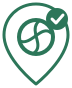
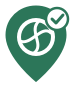
fix: align marker states with Apple completion semantics

diff --git a/scripts/render_markers.swift b/scripts/render_markers.swift
@@ -96,8 +96,9 @@ func pngData(_ image: NSImage) -> Data {
   return png
 }
 func drawCheckBadge() {
-  fill(circle(57, 69, 11), green)
-  let check = NSBezierPath(); check.move(to: NSPoint(x: 52, y: 69)); check.line(to: NSPoint(x: 56, y: 65)); check.line(to: NSPoint(x: 63, y: 73)); stroke(check, white, 3)
+  let badge = circle(57, 69, 11)
+  fill(badge, white); stroke(badge, green, 2.5)
+  let check = NSBezierPath(); check.move(to: NSPoint(x: 52, y: 69)); check.line(to: NSPoint(x: 56, y: 65)); check.line(to: NSPoint(x: 63, y: 73)); stroke(check, green, 3)
 }
 
 for kind in Kind.allCases {
@@ -106,9 +107,10 @@ for kind in Kind.allCases {
     image.lockFocus()
     NSGraphicsContext.current?.imageInterpolation = .high
     let pin = markerPath()
-    if state == .want { fill(pin, green); stroke(pin, white, 3) }
-    else { fill(pin, white); stroke(pin, green, 3) }
-    drawGlyph(kind, color: state == .want ? white : green)
+    // 遵循 Apple 的完成状态语言：未完成保持描边，完成后使用实心并明确显示勾。
+    if state == .want { fill(pin, white); stroke(pin, green, 3) }
+    else { fill(pin, green); stroke(pin, white, 3) }
+    drawGlyph(kind, color: state == .want ? green : white)
     if state == .visited { drawCheckBadge() }
     image.unlockFocus()
     try pngData(image).write(to: output.appendingPathComponent("\(kind.rawValue)-\(state.rawValue).png"))

diff --git a/README.md b/README.md
@@ -2,6 +2,8 @@
 
 一个以地图为首页的微信小程序。用户可以保存从抖音、小红书等地方看到的店铺，按分类与种草/拔草状态筛选，查看距离，记录到访，并唤起系统地图导航。分类可从统一图标库选择图形；顶部分类、地点编辑页与地图图钉自动使用同一图形，图钉外壳用于区分种草和拔草。
 
+图钉状态遵循 Apple 提醒事项的完成语义：描边图钉表示尚未完成的“种草”，实心图钉配勾表示已经完成的“拔草”；地图当前选中地点通过放大和地点卡片表达。
+
 ## 当前版本
 
 V0 本地验证版已经包含：
